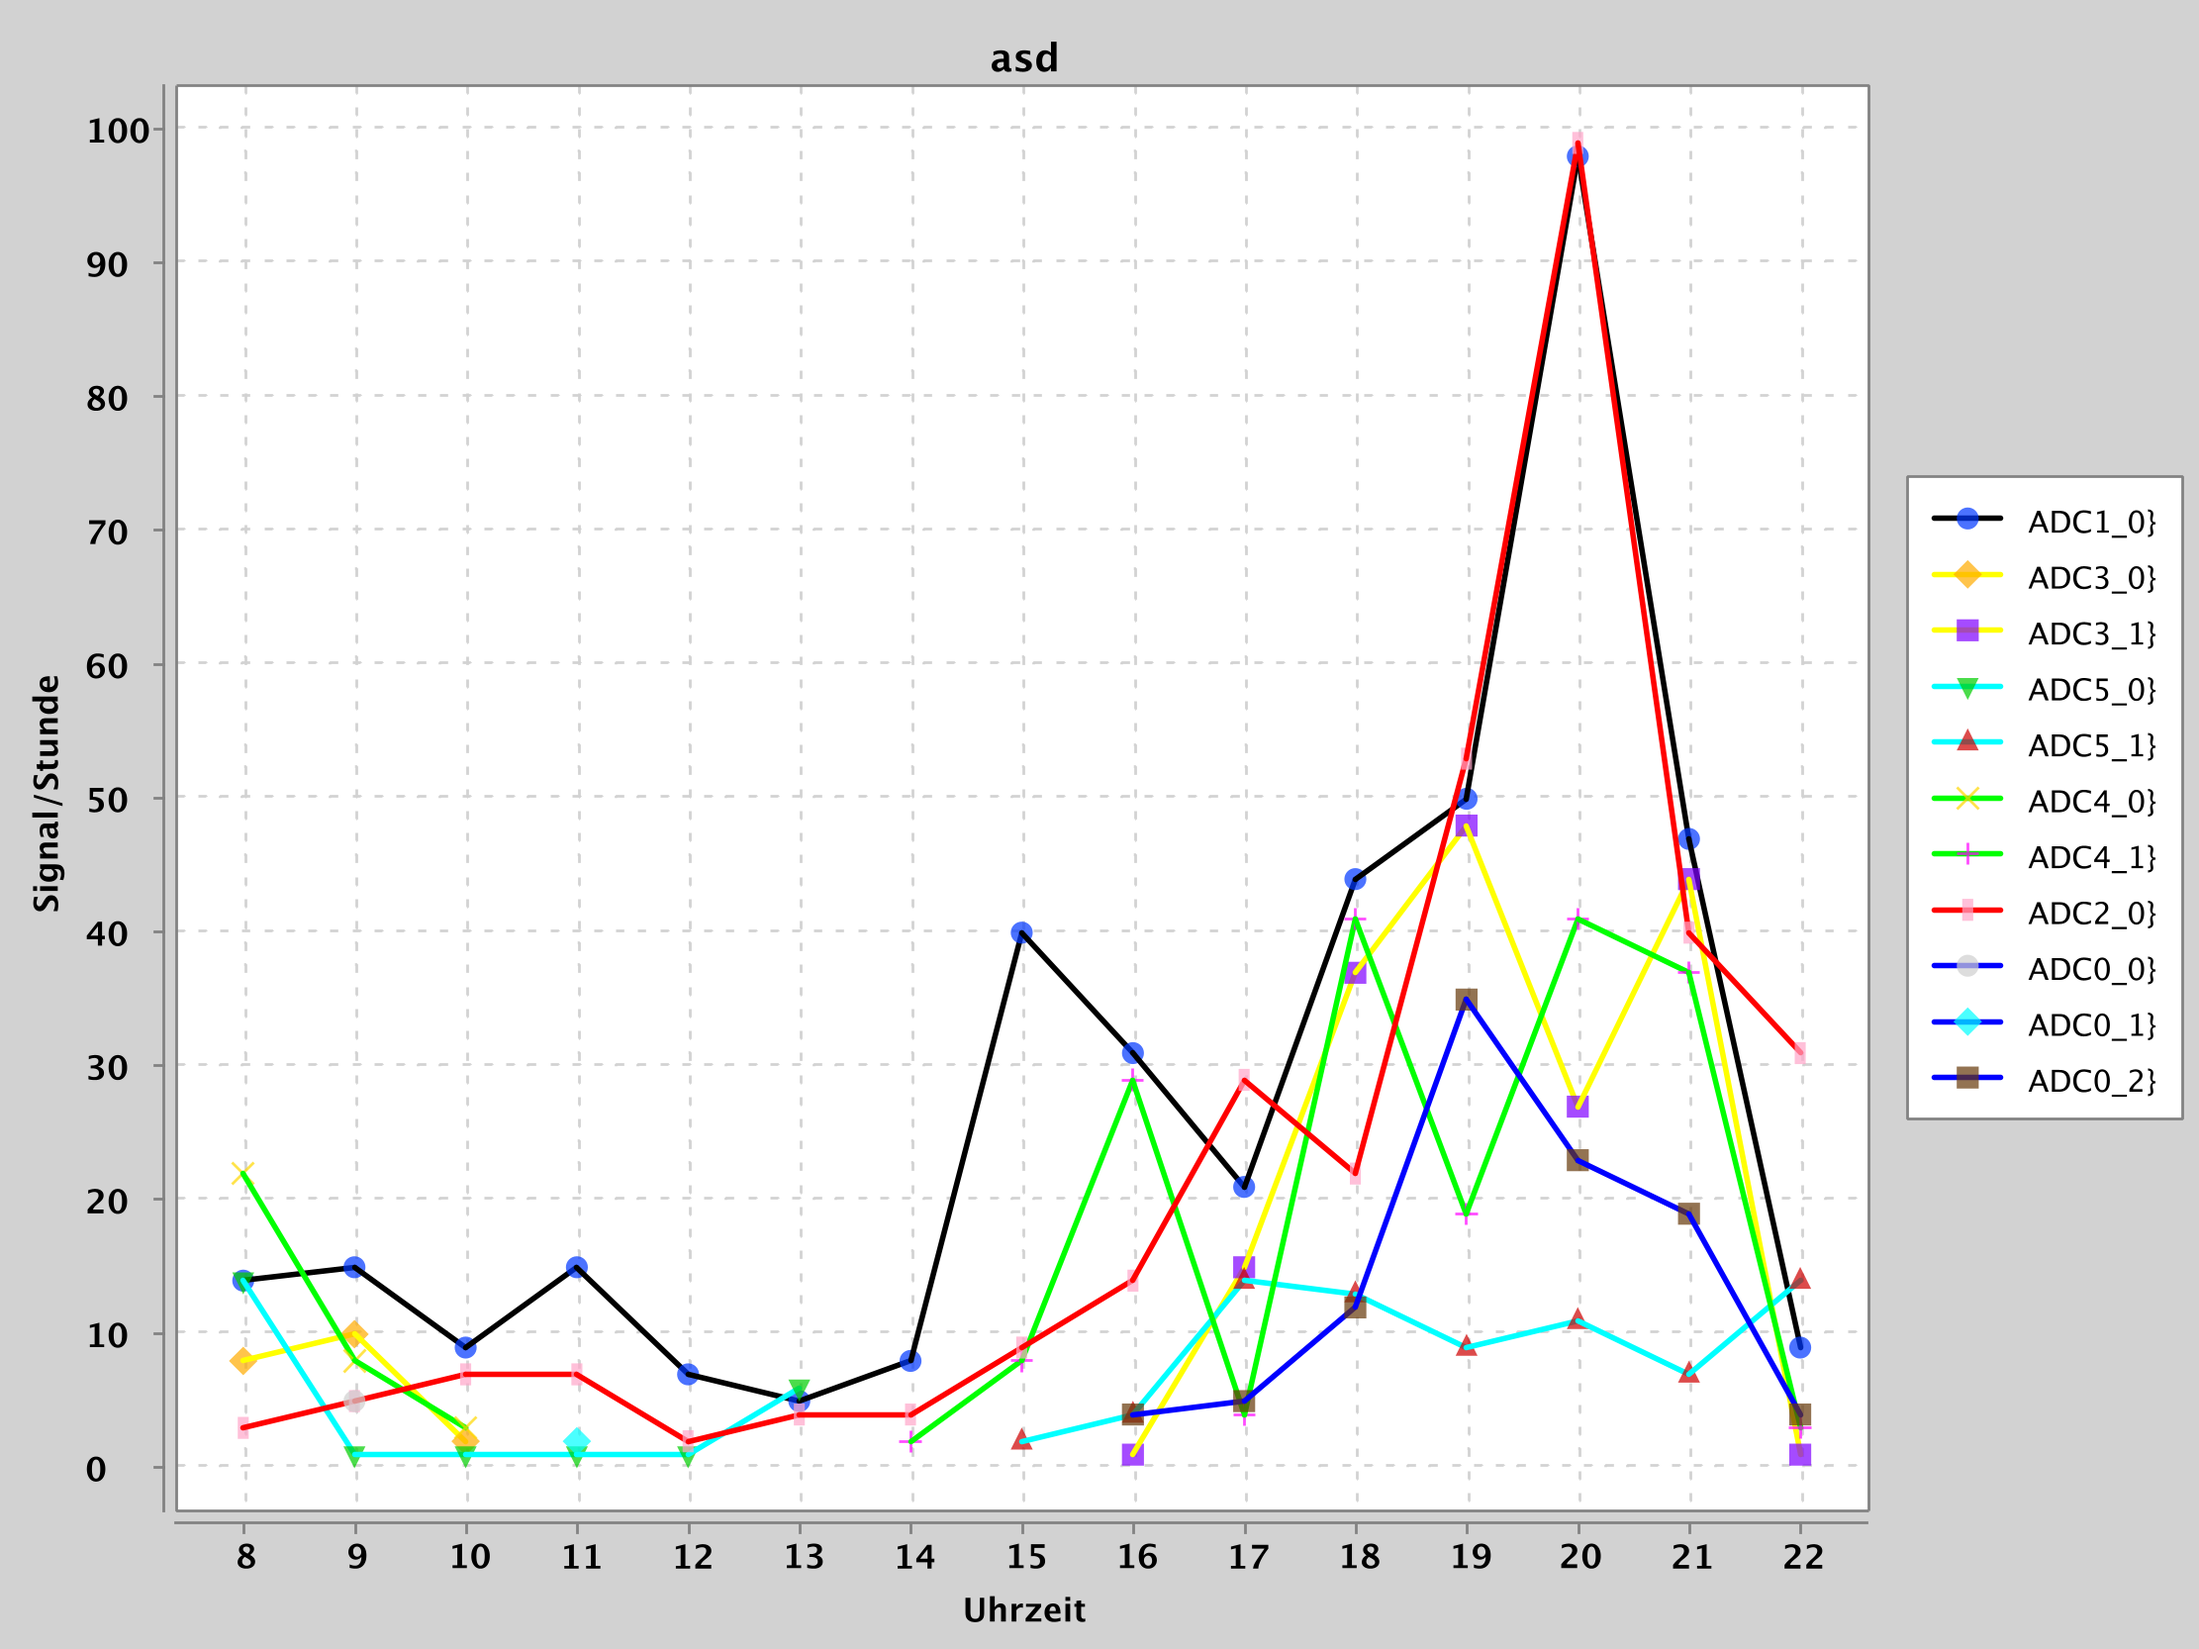
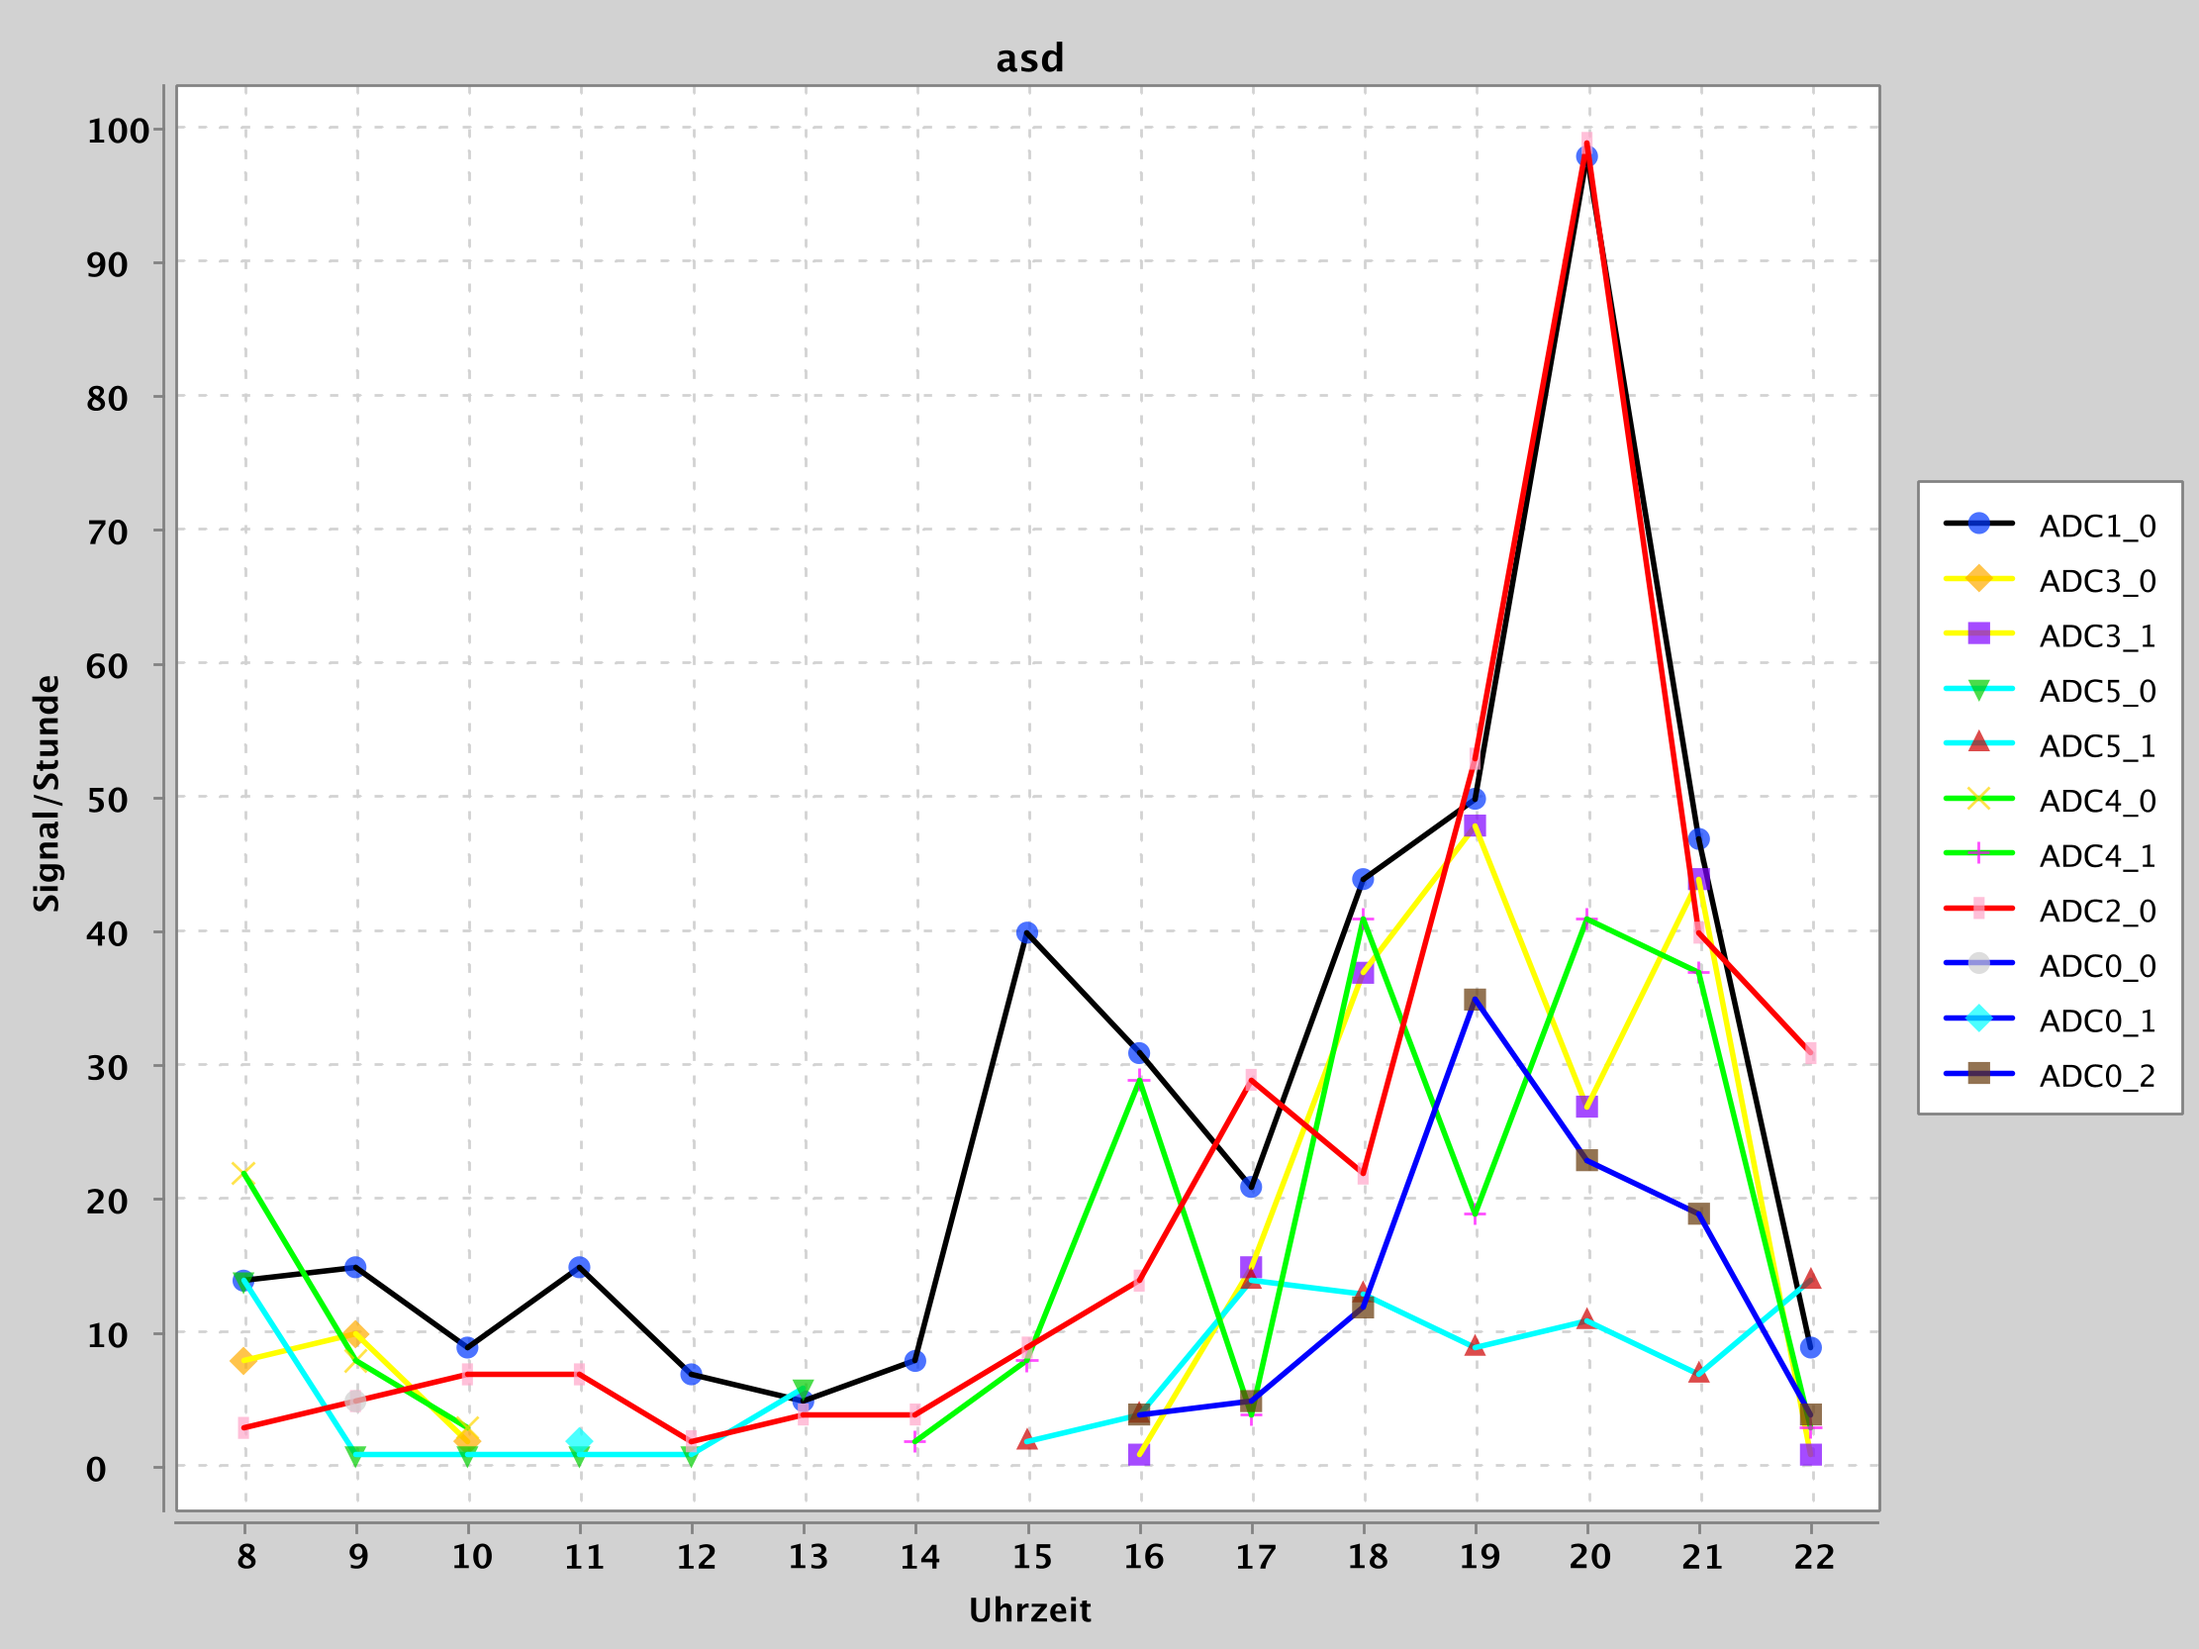
fix

diff --git a/src/main/kotlin/main.kt b/src/main/kotlin/main.kt
@@ -268,7 +268,7 @@ fun <T : Enum<T>> XYChart.plotSeries(
   color: (Enum<T>) -> Color,
   rangeId: Int? = null
 ) {
-  val series = addSeries(rangeId?.let { "${key.name}_$rangeId}" } ?: key.name,
+  val series = addSeries(rangeId?.let { "${key.name}_$rangeId" } ?: key.name,
     data.keys.toList(), data.values.toList())
   series.lineColor = color(key)
 }
